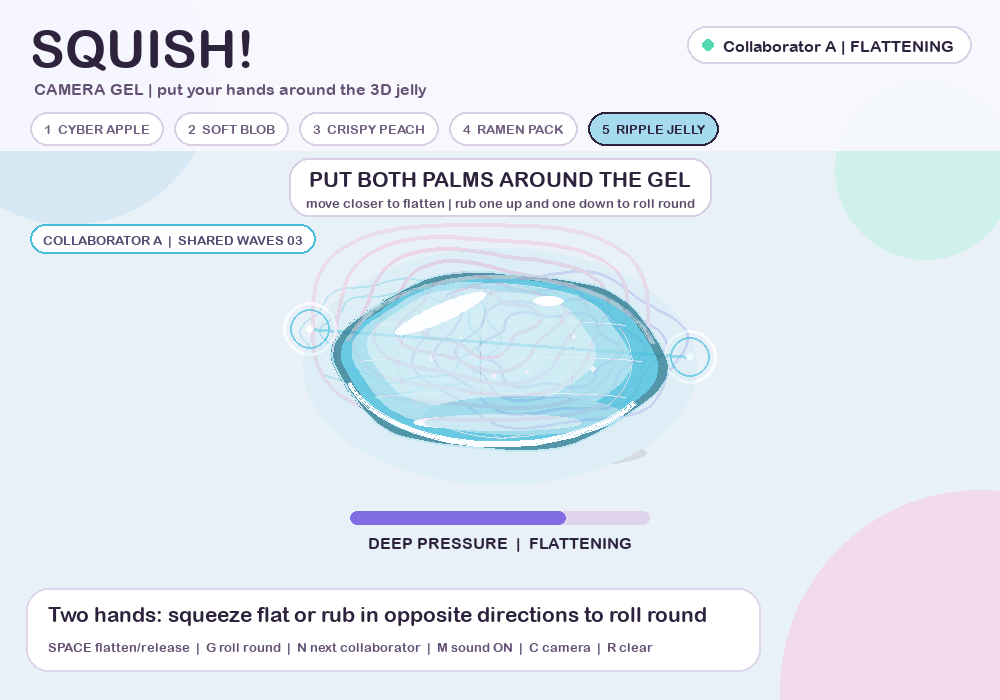
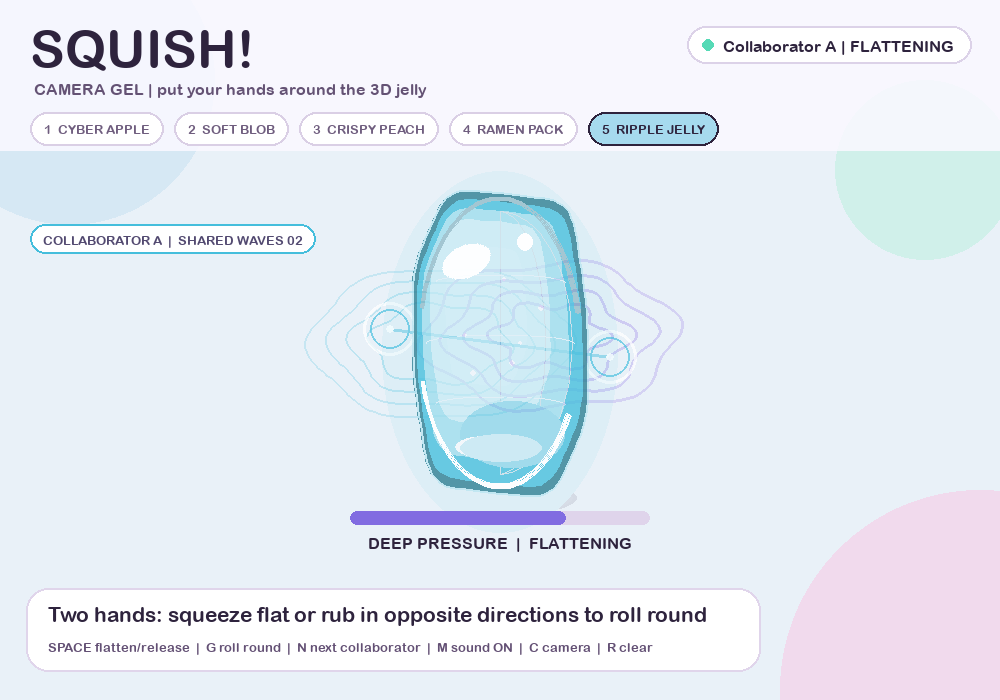
feat: add physical compression and delayed burst

Changed region(s): [[0.279, 0.24, 0.713, 0.72], [0.465, 0.51, 0.496, 0.54]]

diff --git a/src/squish/app.py b/src/squish/app.py
@@ -12,7 +12,7 @@ from dataclasses import dataclass
 import pygame
 
 from .camera import HandCamera
-from .gesture import SpringValue, clamp, is_pull_apart_tear, pressure_band
+from .gesture import SpringValue, clamp, incompressible_deformation, is_pull_apart_tear, pressure_band, update_burst_charge
 
 
 WIDTH, HEIGHT = 1000, 700
@@ -137,6 +137,7 @@ class SquishApp:
         self.tracked_palms: tuple[tuple[float, float], ...] = ()
         self.jelly_burst_latched = False
         self.jelly_burst_timer = 0.0
+        self.jelly_burst_charge = 0.0
         self.crinkle_sound = self.make_sound("crinkle")
         self.burst_sound = self.make_sound("burst")
         self.ripple_sounds = {
@@ -245,6 +246,7 @@ class SquishApp:
             self.jelly_anchor = [0.5, 0.48]
             self.jelly_burst_latched = False
             self.jelly_burst_timer = 0.0
+            self.jelly_burst_charge = 0.0
 
     def release_ripple(self) -> None:
         pressure = clamp(self.jelly_peak)
@@ -476,18 +478,21 @@ class SquishApp:
                 self.jelly_roundness = clamp(self.jelly_roundness + dt * 0.055, 0.36, 1.0)
                 self.jelly_rotation = (self.jelly_rotation + dt * 0.10) % math.tau
             if not self.jelly_burst_latched:
+                self.jelly_burst_charge = update_burst_charge(self.jelly_burst_charge, clamp(squish), dt)
                 self.jelly_peak = max(self.jelly_peak, clamp(squish))
                 if self.jelly_peak > 0.16:
                     self.jelly_armed = True
-                if squish >= 0.91:
+                if self.jelly_burst_charge >= 1.0:
                     self.jelly_burst_latched = True
                     self.jelly_armed = False
                     self.jelly_peak = 0.0
                     self.spawn_diamond_splash()
                 elif self.jelly_armed and squish < 0.10 and self.target < 0.08:
+                    self.jelly_burst_charge = 0.0
                     self.release_ripple()
             elif squish < 0.12 and self.target < 0.08:
                 self.jelly_burst_latched = False
+                self.jelly_burst_charge = 0.0
                 self.jelly_peak = 0.0
                 self.jelly_armed = False
                 self.jelly_roundness = 1.0
@@ -541,6 +546,8 @@ class SquishApp:
         elif self.toy_index == 4:
             if self.jelly_burst_latched:
                 action = "DIAMOND SPLASH"
+            elif self.jelly_burst_charge > 0.02:
+                action = f"CRYSTALLISING {round(self.jelly_burst_charge * 100):02d}%"
             elif self.jelly_roll_strength > 0.20:
                 action = "ROLLING ROUND"
             elif squish > 0.12:
@@ -788,14 +795,15 @@ class SquishApp:
         surface.blit(layer, (0, 0))
 
     def draw_camera_prompt(self, surface: pygame.Surface, w: int) -> None:
-        title = self.font.render("PUT BOTH PALMS AROUND THE GEL", True, INK)
-        hint = self.font_tiny.render("move closer to flatten | rub one up and one down to roll round", True, (91, 76, 108))
-        prompt = pygame.Rect(0, 0, max(title.get_width(), hint.get_width()) + 34, 59)
-        prompt.midtop = (w // 2, 158)
-        pygame.draw.rect(surface, (255, 255, 255), prompt, border_radius=20)
-        pygame.draw.rect(surface, (216, 207, 230), prompt, 2, border_radius=20)
-        surface.blit(title, (prompt.centerx - title.get_width() // 2, prompt.y + 9))
-        surface.blit(hint, (prompt.centerx - hint.get_width() // 2, prompt.y + 37))
+        if len(self.tracked_palms) < 2:
+            title = self.font.render("PUT BOTH PALMS AROUND THE GEL", True, INK)
+            hint = self.font_tiny.render("move closer to flatten | rub one up and one down to roll round", True, (91, 76, 108))
+            prompt = pygame.Rect(0, 0, max(title.get_width(), hint.get_width()) + 34, 59)
+            prompt.midtop = (w // 2, 158)
+            pygame.draw.rect(surface, (255, 255, 255), prompt, border_radius=20)
+            pygame.draw.rect(surface, (216, 207, 230), prompt, 2, border_radius=20)
+            surface.blit(title, (prompt.centerx - title.get_width() // 2, prompt.y + 9))
+            surface.blit(hint, (prompt.centerx - hint.get_width() // 2, prompt.y + 37))
         participant = self.font_tiny.render(
             f"COLLABORATOR {chr(65 + self.collaborator)}  |  SHARED WAVES {self.ripple_layers:02d}",
             True,
@@ -811,11 +819,13 @@ class SquishApp:
         remembered_flatness = (1.0 - self.jelly_roundness) * 0.72
         pressure = max(spring_pressure, remembered_flatness) * (1.0 - self.jelly_roll_strength * 0.76)
         pressure = clamp(pressure)
-        # Keep the resting form close to a water-gel sphere. Pressure turns that
-        # sphere into a convincing squish without losing its glossy silhouette.
-        width = 252 * (1.0 + pressure * 0.43) * scale
-        height = 252 * (1.0 - pressure * 0.40) * scale
-        cy += pressure * 25 * scale
+        # Treat the gel as an incompressible ellipsoid squeezed from the sides:
+        # horizontal material moves into the vertical and depth axes instead of
+        # vanishing. This same pressure-to-shape relationship is used for every
+        # input method, whether one hand, two hands, keyboard, or mouse.
+        width_scale, height_scale = incompressible_deformation(pressure)
+        width = 252 * width_scale * scale
+        height = 252 * height_scale * scale
 
         layer = pygame.Surface(surface.get_size(), pygame.SRCALPHA)
         tint = RIPPLE_COLORS[self.collaborator]
@@ -836,13 +846,23 @@ class SquishApp:
         glow = pygame.Rect(0, 0, width + 64 * scale, height + 58 * scale)
         glow.center = (cx, cy + height * 0.03)
         pygame.draw.ellipse(layer, (*tint, 18), glow)
+        if self.jelly_burst_charge > 0.0:
+            charge_halo = pygame.Rect(0, 0, width + (35 + self.jelly_burst_charge * 35) * scale, height + (35 + self.jelly_burst_charge * 35) * scale)
+            charge_halo.center = (cx, cy)
+            pygame.draw.ellipse(layer, (226, 205, 255, int(28 + self.jelly_burst_charge * 58)), charge_halo, max(2, int(3 * scale)))
 
         now = pygame.time.get_ticks() * 0.0018
         points = []
         for index in range(96):
             angle = index / 96 * math.tau
             wobble = 1 + math.sin(angle * 6 + now) * (0.018 + pressure * 0.012)
-            points.append((cx + math.cos(angle) * width * 0.5 * wobble, cy + math.sin(angle) * height * 0.5 * wobble))
+            # A pressure-dependent superellipse creates flatter contact patches
+            # on the left and right and fuller bulges above and below.
+            shape_power = 2.0 / (2.0 + pressure * 1.7)
+            cosine, sine = math.cos(angle), math.sin(angle)
+            shaped_x = math.copysign(abs(cosine) ** shape_power, cosine)
+            shaped_y = math.copysign(abs(sine) ** shape_power, sine)
+            points.append((cx + shaped_x * width * 0.5 * wobble, cy + shaped_y * height * 0.5 * wobble))
         pygame.draw.polygon(layer, (*edge, 205), points)
 
         # Nested bodies act like a simple radial material: saturated at the rim,
@@ -1096,6 +1116,8 @@ class SquishApp:
             shake = (self.spring.value - 0.72) * 18
         if self.shake_timer > 0:
             shake = max(shake, self.shake_timer / 0.36 * 13)
+        if self.toy_index == 4 and self.jelly_burst_charge > 0.0 and not self.jelly_burst_latched:
+            shake = max(shake, self.jelly_burst_charge * 3.8)
         if shake > 0:
             cx += random.uniform(-shake, shake) * scale
             cy += random.uniform(-shake, shake) * scale
@@ -1118,9 +1140,14 @@ class SquishApp:
         meter_value = self.jelly_roundness if self.toy_index == 4 and self.jelly_roll_strength > 0.20 else clamp(self.spring.value)
         fill.width = int(meter.width * meter_value)
         pygame.draw.rect(self.screen, self.toy.accent, fill, border_radius=7)
+        if self.toy_index == 4 and self.jelly_burst_charge > 0.0 and not self.jelly_burst_latched:
+            charge_bar = pygame.Rect(meter.x, meter.y, int(meter.width * self.jelly_burst_charge), 5)
+            pygame.draw.rect(self.screen, (244, 155, 224), charge_bar, border_radius=3)
         if self.toy_index == 4:
             if self.jelly_burst_latched:
                 label = "DIAMOND SPLASH!  |  release to reform"
+            elif self.jelly_burst_charge > 0.02:
+                label = f"HOLD STEADY  |  crystallising {round(self.jelly_burst_charge * 100):02d}%"
             elif self.jelly_roll_strength > 0.20:
                 label = f"ROLLING ROUND  |  form {round(self.jelly_roundness * 100):02d}%"
             elif clamp(self.spring.value) > 0.12:

diff --git a/tests/test_gesture.py b/tests/test_gesture.py
@@ -6,11 +6,13 @@ from squish.gesture import (
     SpringValue,
     clamp,
     hand_openness,
+    incompressible_deformation,
     is_pull_apart_tear,
     pressure_band,
     two_hand_roll_motion,
     remap_clamped,
     two_hand_squish,
+    update_burst_charge,
 )
 
 
@@ -90,3 +92,20 @@ def test_ripple_pressure_bands_have_equal_clear_ranges() -> None:
     assert pressure_band(0.2) == "light"
     assert pressure_band(0.5) == "medium"
     assert pressure_band(0.9) == "deep"
+
+
+def test_squashed_gel_preserves_approximate_volume() -> None:
+    width_scale, height_scale = incompressible_deformation(0.8)
+    assert width_scale < 1.0
+    assert height_scale > 1.0
+    assert width_scale * height_scale**2 == pytest.approx(1.0)
+
+
+def test_diamond_burst_requires_sustained_maximum_pressure() -> None:
+    charge = 0.0
+    for _ in range(10):
+        charge = update_burst_charge(charge, 1.0, 0.05)
+    assert 0.35 < charge < 0.5
+    for _ in range(8):
+        charge = update_burst_charge(charge, 0.7, 0.05)
+    assert charge < 0.1

diff --git a/src/squish/gesture.py b/src/squish/gesture.py
@@ -134,6 +134,28 @@ def pressure_band(pressure: float) -> str:
     return "deep"
 
 
+def incompressible_deformation(pressure: float) -> tuple[float, float]:
+    """Return horizontal and vertical scales for a side-compressed soft sphere.
+
+    Hydrogel is treated as approximately incompressible: squeezing the x axis
+    displaces material into the two perpendicular axes. The returned scales
+    preserve ellipsoid volume because x_scale * y_scale**2 is approximately 1.
+    """
+    compression = 1.0 - clamp(pressure) * 0.44
+    expansion = 1.0 / (compression ** 0.5)
+    return compression, expansion
+
+
+def update_burst_charge(charge: float, pressure: float, dt: float) -> float:
+    """Accumulate a delayed burst only while near-maximum pressure is held."""
+    dt = max(0.0, min(dt, 0.1))
+    if pressure >= 0.93:
+        charge += dt / 1.25
+    else:
+        charge -= dt * 1.35
+    return clamp(charge)
+
+
 @dataclass
 class SpringValue:
     """A soft spring used for deformation and rebound."""

diff --git a/src/squish/__init__.py b/src/squish/__init__.py
@@ -1,4 +1,4 @@
 """SQUISH! interactive digital stress toy."""
 
-__version__ = "0.9.0"
+__version__ = "0.10.0"
 

diff --git a/README.md b/README.md
@@ -8,6 +8,10 @@ The default **Ripple Jelly** mode is the focused Assignment 3 experience. Earlie
 
 ![Camera Gel during a squeeze in privacy-safe fallback mode](docs/ripple-jelly-squeeze.png)
 
+The gel is treated as approximately incompressible. Side pressure reduces its horizontal axis while the displaced volume expands vertically and into the implied depth axis; a pressure-dependent superellipse creates flatter contact patches against the palms. One-hand, two-hand, mouse, and keyboard input all feed the same physical deformation.
+
+![Volume-preserving side compression](docs/physical-squeeze.png)
+
 Three collaborators produce different coloured layers. Light, medium, and deep pressure create equal-status wave qualities rather than a score hierarchy.
 
 ![Camera Gel after releasing a shared wave](docs/ripple-jelly-release.png)
@@ -18,7 +22,9 @@ The documentation screenshots use the camera-free fallback background so no pers
 
 ![3D jelly rolled back into a sphere](docs/3d-jelly-roll-round.png)
 
-At maximum pressure, the gel bursts into water droplets and rotating translucent diamond fragments. Releasing the gesture reforms the ball, so the effect cannot retrigger continuously.
+The gel does not burst immediately at maximum pressure. Pressure must remain above 93% for about 1.25 seconds while a pink crystallisation bar fills. Dropping the pressure makes that progress retreat; a full release resets it. Only a completed hold produces water droplets and rotating translucent diamond fragments.
+
+![Delayed crystallisation before the burst](docs/crystallising-delay.png)
 
 ![Maximum-pressure diamond splash](docs/diamond-splash.png)
 
@@ -77,8 +83,8 @@ The enhanced supermarket interaction adds anticipation before the burst and a di
 - Hand-open / hand-closed estimation, normalised for hand size
 - Horizontal two-palm distance mapped to side pressure
 - Opposing two-palm motion detection that separates rolling from shared camera drift and horizontal squeezing
-- A software-rendered 3D **Ripple Jelly** with rotating projected surface lines, coloured rim, transmitted light, specular highlights, persistent flattening, and roll-to-round recovery
-- A one-shot maximum-pressure water splash with rotating faceted diamond fragments, flash, deep ripple, and reform-on-release feedback
+- A software-rendered 3D **Ripple Jelly** with rotating projected surface lines, coloured rim, transmitted light, specular highlights, volume-preserving side compression, flat contact patches, and roll-to-round recovery
+- A 1.25-second near-maximum-pressure hold before the one-shot water splash, with visible crystallisation progress, rollback on lost pressure, rotating faceted diamonds, and reform-on-release feedback
 - A persistent eight-layer co-creation canvas for three sequential collaborators
 - Three pressure qualities mapped to distinct wave geometry and generated ambient chords
 - Four earlier tactile studies: **Cyber Apple**, **Soft Blob**, **Crispy Peach**, and **Ramen Pack**
@@ -151,7 +157,7 @@ Keyboard and mouse input temporarily take priority over the camera, so you can d
 
 **The hand signal feels jumpy.** Keep one hand visible, face the palm toward the camera, use even lighting, and keep your wrist and fingertips inside the frame. The prototype smooths the reading but intentionally stays responsive.
 
-**The ball does not reach the diamond splash.** Keep both palms facing the camera and bring their centres to roughly one hand-width apart. The wider v0.9 pressure range is intentionally more responsive, but very angled palms may still make the measured gap look larger.
+**The ball does not reach the diamond splash.** Keep both palms facing the camera and bring their centres to roughly one hand-width apart. When `HOLD STEADY` appears, maintain the pressure until crystallisation reaches 100%. Moving below 93% makes the progress retreat, so an unstable or angled pose may need adjustment.
 
 **The wrong gesture is detected.** For one-hand mode, start with a clearly open palm, then make a clear fist. To flatten, keep both palms visible and move them horizontally together. To roll round, hold the gap fairly steady while moving one palm up as the other moves down. Unusual angles, overlap, or a hand leaving the frame can confuse tracking. That limitation is documented honestly in `PROCESS.md`.
 
@@ -165,7 +171,7 @@ Keyboard and mouse input temporarily take priority over the camera, so you can d
 uv run pytest
 ```
 
-These tests cover the one-hand gesture score, two-hand distance mapping, opposite-motion roll detection, deliberate pull-apart detection, pressure bands, range mapping, invalid input, and spring movement without needing a webcam or display.
+These tests cover the one-hand gesture score, two-hand distance mapping, opposite-motion roll detection, volume-preserving deformation, delayed burst charging and rollback, deliberate pull-apart detection, pressure bands, range mapping, invalid input, and spring movement without needing a webcam or display.
 
 ## Project map
 
@@ -185,7 +191,7 @@ SQUISH/
 
 | Criterion | Evidence in this repository |
 |---|---|
-| Interaction and design — 5 | Hand closure builds pressure in a translucent jelly; release generates visibly different persistent ripples and musical chords. Breathing prompts, deformation, pressure text, collaborator identity, wave count, sound, and rebound make the loop legible. |
+| Interaction and design — 5 | Hand pressure reshapes a translucent 3D jelly; release generates visibly different persistent ripples and musical chords. Palm guides, physical deformation, delayed crystallisation, pressure text, collaborator identity, wave count, sound, and rebound make the loop legible. |
 | Working implementation — 4 | Reproducible `uv` setup, pinned compatible camera libraries, camera-free fallback, automated logic tests, and documented limitations. |
 | Usability and iteration — 3 | Visible controls, camera status, reset/quit paths, denied-camera fallback, and a trial procedure in `PROCESS.md`. **The real user trial is still required.** |
 | Process and communication — 3 | README screenshots, process decisions, AI-use record, credits, and a multi-commit Git history. |

diff --git a/PROCESS.md b/PROCESS.md
@@ -185,6 +185,17 @@ Camera frames are mirrored and displayed live, then processed locally in memory 
 - Required pressure to return near zero before the ball reforms and the effect can trigger again, preventing an accidental continuous particle stream.
 - Added a test assertion that a practical close-palm pose now produces more than 90% pressure. The exact live-camera threshold still needs participant testing.
 
+### Prototype 0.10 — physical compression and delayed burst
+
+- Reversed the earlier pancake deformation after observing that it contradicted the visible hand force: palms approaching from the left and right must reduce horizontal width, not increase it.
+- Modelled the gel as an approximately incompressible ellipsoid. Horizontal scale decreases with pressure while both perpendicular axes expand by the inverse square root, keeping `x × y × z` volume approximately constant.
+- Replaced the squeezed ellipse with a pressure-dependent superellipse, producing flatter left/right contact surfaces and fuller top/bottom bulges.
+- Routed one-hand, two-hand, mouse, and keyboard pressure through the same deformation formula; input source no longer changes the material's physical response.
+- Replaced the immediate 91% burst with a sustained threshold: pressure must remain at or above 93% for about 1.25 seconds.
+- Added a pink crystallisation progress strip, percentage status, halo, and increasing micro-tremor. Progress retreats when pressure drops and fully resets on release.
+- Hid the central tutorial card after two palms are detected so the vertically bulging high-pressure form remains unobstructed.
+- Added automated tests for approximate volume conservation and for charge accumulation/rollback. Live threshold timing still requires user testing.
+
 ### AI collaboration record
 
 OpenAI Codex was used to scaffold the Python project, implement and test the camera/fallback loop, propose visual feedback, and draft documentation. A suggestion that was **kept** was separating the gesture maths from the Pygame drawing code, because it makes the input-to-response logic testable without a webcam. An early suggestion to add only simple colour choices was **changed** after the student supplied tactile references: later variants change rebound, fracture, ripple geometry, and sound rather than decoration alone. A first proposal to omit audio was later **rejected** after the student requested sound; the revised design generates sounds in memory and preserves a silent fallback. A points-based game direction was **rejected** in favour of equal-status pressure qualities and a shared generative canvas, because the student wanted a calmer co-creative experience.
@@ -195,7 +206,7 @@ The student must review this account, edit it into their own voice, and ensure i
 
 - Hand openness is heuristic and may vary with hand angle, lighting, and distance.
 - Two-hand distance is measured horizontally and rolling is estimated from frame-to-frame opposite vertical motion, so overlap, low frame rate, or strong camera angles can confuse it.
-- The 91% splash threshold is intentionally reachable, but perceived sensitivity will still vary with camera framing and palm angle.
+- The delayed splash requires 93% pressure to be held for about 1.25 seconds; perceived difficulty will still vary with camera framing and palm angle.
 - Sound depends on the computer providing an output device; visual feedback remains complete without it.
 - Live camera contrast varies by room; translucent white panels preserve the controls, but very bright backlighting can still reduce hand-tracking quality.
 - Co-creation is sequential on one device, not networked or simultaneous.

diff --git a/CREDITS.md b/CREDITS.md
@@ -25,7 +25,7 @@ Library versions used for a particular submission are recorded in `uv.lock` afte
 
 ## Visual and media assets
 
-All shapes, character graphics, projected 3D jelly geometry, translucent material layers, pressure waves, faceted diamond fragments, water droplets, hand-tracking guides, supermarket elements, particles, interface elements, and short sound effects are generated procedurally by the Python code. There are no downloaded images, fonts, sounds, prerecorded camera clips, or third-party visual assets in prototype version 0.9.0.
+All shapes, character graphics, projected 3D jelly geometry, physical deformation curves, translucent material layers, pressure waves, faceted diamond fragments, water droplets, hand-tracking guides, supermarket elements, particles, interface elements, and short sound effects are generated procedurally by the Python code. There are no downloaded images, fonts, sounds, prerecorded camera clips, or third-party visual assets in prototype version 0.10.0.
 
 ## Interaction references
 
